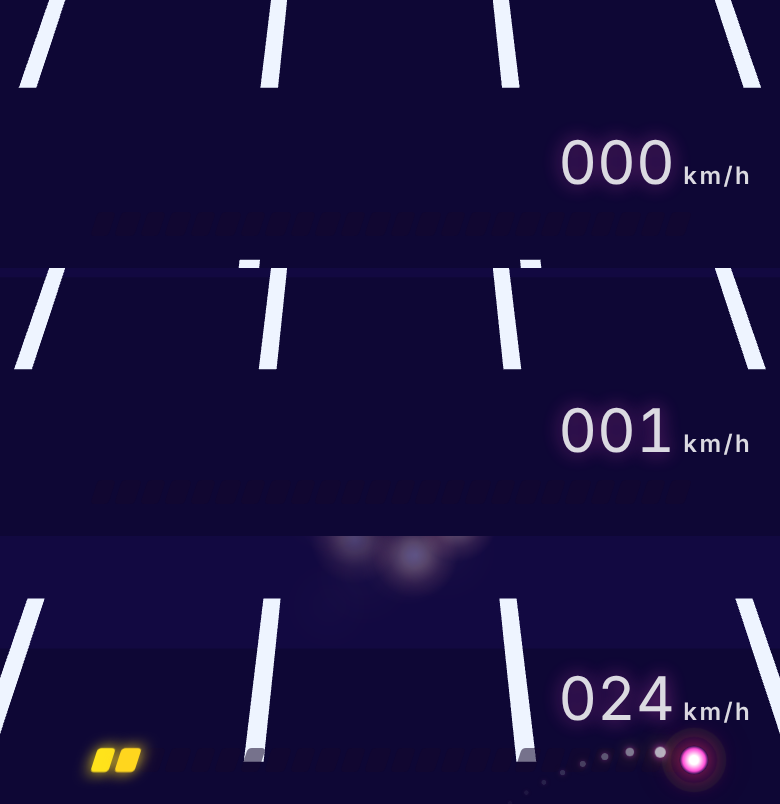
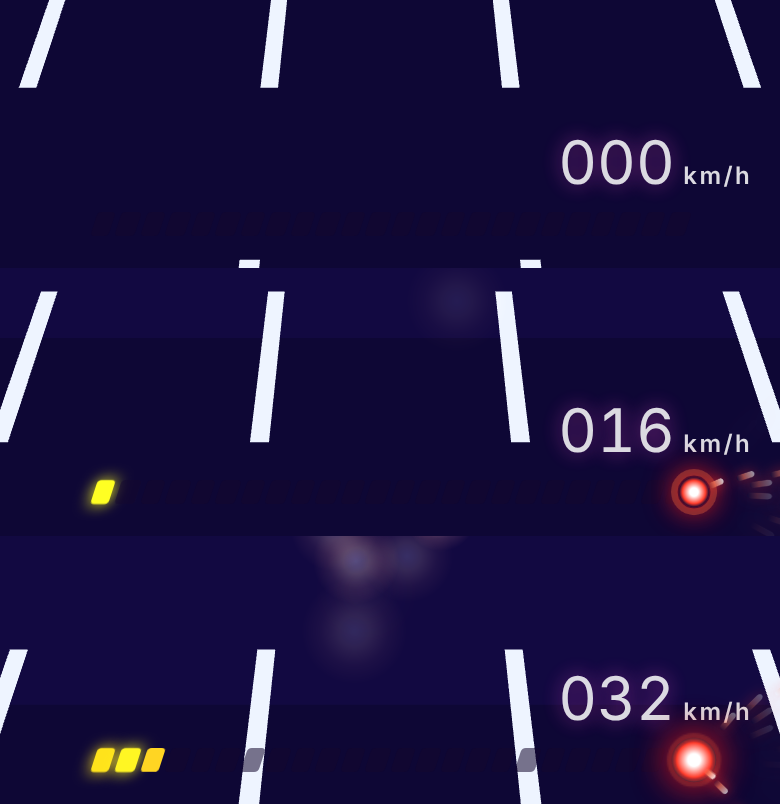
fix(interfaz): las chispas de la velocidad salen hacia fuera y en rojo
A tope, la punta suelta 20 chispas rojas alargadas que salen disparadas
hacia fuera (a la derecha, más allá de la barra) en abanico, en vez de
volver por encima de los segmentos. Orbe y anillo, también en rojo.

Claude-Session: https://claude.ai/code/session_01EwfbyBCyKCbX47326vPkUi

diff --git a/src/app/ui/organisms/hud/hud.scss b/src/app/ui/organisms/hud/hud.scss
@@ -369,15 +369,16 @@
   margin-inline: 9%;
 }
 
-// A tope: la punta rompe el límite de la barra. Un destello con anillos que se abren y chispas
-// que salen disparadas hacia la izquierda (hacia atrás), en abanico, más allá de la barra
+// A tope: la punta rompe el límite de la barra. Destello rojo con un anillo que se abre y una
+// lluvia de chispas rojas que salen disparadas hacia fuera (a la derecha, más allá de la barra),
+// en abanico, como si la velocidad se saliera de la escala
 .speed-tip {
   position: absolute;
   right: -4px;
   top: 50%;
   width: 0;
   height: 0;
-  --c: #ff4fd8;
+  --c: #ff2a2a;
 
   .orb {
     position: absolute;
@@ -385,9 +386,9 @@
     height: 18px;
     margin: -9px;
     border-radius: 50%;
-    background: radial-gradient(circle, #fff 0 22%, #ff4fd8 55%, transparent 72%);
-    box-shadow: 0 0 16px #ff2a6d;
-    animation: orb 0.22s ease-in-out infinite alternate;
+    background: radial-gradient(circle, #fff 0 20%, #ff3b2a 55%, transparent 72%);
+    box-shadow: 0 0 16px #ff1a1a;
+    animation: orb 0.2s ease-in-out infinite alternate;
   }
   // Anillo que se abre desde la punta, como si la barra se partiera
   .ring {
@@ -396,23 +397,24 @@
     height: 14px;
     margin: -7px;
     border-radius: 50%;
-    border: 2px solid #ffd319;
-    box-shadow: 0 0 10px #ff2a6d;
-    animation: ring 0.55s ease-out infinite;
+    border: 2px solid #ff6a3a;
+    box-shadow: 0 0 10px #ff1a1a;
+    animation: ring 0.45s ease-out infinite;
   }
+  // Chispas alargadas en la dirección en la que salen: dan sensación de velocidad
   .spark {
     position: absolute;
-    width: 6px;
-    height: 6px;
-    margin: -3px;
-    border-radius: 50%;
-    background: #fff;
-    box-shadow:
-      0 0 4px var(--c),
-      0 0 12px #ffd319;
-    --dx: calc(-36px - var(--k) * 6px);
-    --dy: calc((var(--k) - 5.5) * 5px);
-    animation: spark 0.55s calc(var(--k) * -0.046s) cubic-bezier(0.1, 0.6, 0.3, 1) infinite;
+    width: 9px;
+    height: 3px;
+    margin: -1.5px 0 0 0;
+    border-radius: 2px;
+    background: linear-gradient(90deg, transparent, #ff7a5a 40%, #fff);
+    box-shadow: 0 0 6px var(--c);
+    transform-origin: 0 50%;
+    // Abanico hacia fuera: de −50° a 50° respecto a la derecha
+    --a: calc((var(--k) - 9.5) * 5.2deg);
+    rotate: var(--a);
+    animation: spark-out 0.42s calc(var(--k) * -0.021s) cubic-bezier(0.1, 0.7, 0.3, 1) infinite;
   }
 }
 
@@ -542,6 +544,17 @@
   100% {
     opacity: 0;
     translate: 0 -10px;
+  }
+}
+@keyframes spark-out {
+  0% {
+    transform: translateX(0) scaleX(0.6);
+    opacity: 1;
+  }
+  100% {
+    // Hacia fuera en su dirección (la rotación ya la orienta)
+    transform: translateX(var(--len)) scaleX(1.6);
+    opacity: 0;
   }
 }
 @keyframes ring {

diff --git a/src/app/ui/organisms/hud/hud.html b/src/app/ui/organisms/hud/hud.html
@@ -74,12 +74,12 @@
         }
       </span>
       @if (topSpeed() && state().accelerating) {
-        <!-- A tope: la punta rompe el límite de la barra y suelta chispas hacia atrás -->
+        <!-- A tope: la punta rompe el límite de la barra y suelta chispas rojas hacia fuera -->
         <span class="speed-tip">
           <i class="ring"></i>
           <i class="orb"></i>
-          @for (k of tipSparks; track k) {
-            <i class="spark" [style.--k]="k"></i>
+          @for (p of tipSparks; track p.k) {
+            <i class="spark" [style.--k]="p.k" [style.--len.px]="p.len"></i>
           }
         </span>
       }

diff --git a/src/app/ui/organisms/hud/hud.ts b/src/app/ui/organisms/hud/hud.ts
@@ -145,6 +145,10 @@ export class Hud {
     return target === null ? '' : formatTime(target);
   });
   protected readonly sparks = Array.from({ length: 9 }, (_, i) => i);
-  /** Chispas de la punta de la velocidad a tope (más que en las medallas). */
-  protected readonly tipSparks = Array.from({ length: 12 }, (_, i) => i);
+  /** Chispas de la punta de la velocidad a tope (muchas: sensación de velocidad). */
+  protected readonly tipSparks = Array.from({ length: 20 }, (_, k) => ({
+    k,
+    // Distancias variadas (34-70 px) para que no salgan todas a la vez en línea
+    len: 34 + ((k * 7) % 5) * 9,
+  }));
 }

diff --git a/CLAUDE.md b/CLAUDE.md
@@ -28,7 +28,7 @@ Juego de carreras 3D low-poly para móvil en vertical. Angular 22 + Three.js. El
 - Mapa del día: el mismo para todos, cambia a medianoche de España y rota entre los circuitos por vueltas. Ranking propio (`daily-AAAA-MM-DD`, como un mapa más) y copa por tercios. Antes de correr se elige rival como en los mapas, del ranking de hoy (el 1.º, el de justo encima o tu mejor de hoy; la elección se recuerda para los días siguientes; «Repetir» sigue contra el mismo): oro, plata o bronce con el puesto. Intentos (no se muestran): 2 gratis al día; al gastarlos, ventana centrada para esperar 3 h (2 más) o ver un anuncio (3 más; sin anuncios todavía, `NoAdsAdapter` los da directamente). Un intento se gasta al empezar la carrera. Un récord del día que mejore el del mapa cuenta también en su ranking.
 - Cubo azul del mapa del día: un cubo azul brillante que gira y flota en un carril; el mismo carril y punto de la vuelta para todos ese día (`core/domain/daily/daily-cube.ts`, sale de la fecha; en un tramo de ancho fijo, lejos de cruces, embudos y de la salida; en cada vuelta en el mismo sitio). Se coge pasando por su carril (una vez al día, `rapiddash.cubeDay`) y regala un coche o un efecto cerrado al azar, que queda abierto en el garaje sin debug (`pickPrize`; `rapiddash.wonCars` y `rapiddash.wonFx`, sobreviven al reinicio de datos). Al acabar esa carrera, encima de los resultados, la ruleta (`prize-roulette`, unos 6,6 s, se salta tocando): el cubo estalla, pasa una cinta con las siluetas de lo que queda por ganar (mismos perfiles que el 3D, `car-looks.ts`; sin dos iguales seguidas, `prize-reel.ts`), frena con rebote y un clic por premio, y el que toca se pinta con «Desbloqueaste» y su nombre. Lleva directo al garaje (`/garage?prize=car-14`) con ese premio a la vista: no se equipa solo, hay que pulsar «Elegir», y «Ahora no» vuelve al mapa del día. Con todo ganado ya no sale. Es decoración: no cambia la física.
 - Medallas por tiempo (`core/domain/medals`), solo en el mapa del día y en los torneos: bronce, plata, oro y platino. Tiempos objetivo del piloto automático (`core/domain/race/autopilot.ts`, T): platino T − 3 %, oro T, plata T + 8 %, bronce T + 18 % (`mapMedalTargets`, se calculan una vez; los mapas de prueba no tienen). La medalla sale de mi mejor tiempo de ese día (en el ranking del día o del día del torneo): cada día se empieza sin medalla. En los mapas sueltos y en el 1 vs 1 Turbo no hay medallas. Se ven en: el HUD (barra de mi liga con su moneda y, debajo, la de la siguiente medalla con su tiempo objetivo y lo que queda, que se va llenando con el tiempo de carrera, con franjas que corren y una punta que late y suelta chispas; late más en los últimos segundos y se apaga con ✕ si ya no llega), los resultados (moneda junto al puesto mundial, «¡Nueva medalla!» con golpe y chispas si sube de liga, y la barra de la siguiente con su tiempo y lo que falta), el top 10 de hoy del mapa del día y la clasificación del torneo (cada piloto con su apodo, su tiempo y su cápsula teñidos del color de su liga, como en Race Time; la mía más intensa y con brillo; el platino irisado; encima, mi liga y la siguiente) y la pantalla Medallas (`/medals`, botón al lado del Garaje: historial del mapa del día de los últimos 60 días con el circuito, la medalla y los cuatro tiempos de cada día jugado; arriba, cuántas de cada, con oro contando también como plata y bronce; el de hoy, con lo que falta y el botón para correrlo; `core/domain/medals/daily-medals.ts`). Moneda en CSS: `rd-medal-coin`; liga: `rd-medal-league`; colores: tokens `--rd-medal-*`.
-- HUD (`rd-hud`, reglas de estilo en la skill `rapiddash-hud-feel`): velocidad con muelle y 24 segmentos del amarillo al rosa que brillan al acelerar; la barra deja un margen a cada lado y, a tope y acelerando, los segmentos laten en ola y la punta «rompe» el límite (destello con un anillo que se abre y chispas disparadas hacia la izquierda, más allá de la barra); el HUD se inclina 1-2° en los cambios de carril; se sacude al chocar; la píldora del fantasma, verde o roja, estalla al cambiar de signo y al ponerse por delante sale «¡Por delante!»; el tiempo da un golpe al cruzar la línea. Respeta «Reducir movimiento». Pruebas, solo con el modo debug: `?auto=1` (piloto automático) y `?best=52.3` y `?demo=1` en la carrera, `?mock=1` en Medallas.
+- HUD (`rd-hud`, reglas de estilo en la skill `rapiddash-hud-feel`): velocidad con muelle y 24 segmentos del amarillo al rosa que brillan al acelerar; la barra deja un margen a cada lado y, a tope y acelerando, los segmentos laten en ola y la punta «rompe» el límite (destello rojo con un anillo que se abre y 20 chispas rojas alargadas disparadas hacia fuera, a la derecha y en abanico, más allá de la barra); el HUD se inclina 1-2° en los cambios de carril; se sacude al chocar; la píldora del fantasma, verde o roja, estalla al cambiar de signo y al ponerse por delante sale «¡Por delante!»; el tiempo da un golpe al cruzar la línea. Respeta «Reducir movimiento». Pruebas, solo con el modo debug: `?auto=1` (piloto automático) y `?best=52.3` y `?demo=1` en la carrera, `?mock=1` en Medallas.
 - Torneos (online): de 3 días y hasta 20 pilotos (puntúan los 10 primeros de cada día). Se crean con nombre y se invita con código de 6 caracteres o enlace (`/t/CODIGO`, Copiar o Compartir). Lo empieza el creador (mínimo 2); con el enlace se puede entrar en cualquier momento hasta que acabe (también ya empezado: la clasificación en curso muestra el código para invitar); al empezar se sortea un circuito por vueltas distinto para cada día. Carreras ilimitadas: cuenta el mejor tiempo del día (ranking `t-CODIGO-dN`, que también mejora el del mapa). En la clasificación en curso se elige rival como en el mapa del día, del ranking del día del torneo (el 1.º, el de justo encima o tu mejor de hoy; se recuerda para todos los torneos; «Repetir» sigue contra el mismo). Puntos por día 15-12-10-8-7-6-5-4-3-2; el empate lo rompen los días ganados. Pantallas: Mis torneos, sala de espera y clasificación con los días (los terminados muestran al ganador); la clasificación muestra los puntos de los días ya empezados, el total y, al lado, la columna «Tiempo» con el del día en curso (o del último, si ya acabó). El creador puede eliminarlo: en Mis torneos, deslizando la tarjeta a la izquierda aparece una papelera a la derecha y una ventana pide confirmación (foco en «Cancelar»); se borran el torneo y las fotos de su cartel.
 - 1 vs 1 Turbo (online, botón en la portada, `/duels`; `core/domain/duel/duel.ts`): crear un duelo da un código de 6 caracteres y un enlace (`/d/CODIGO`) y sortea un circuito por vueltas. Entra un solo rival, sin que haga falta empezarlo (la sala se actualiza sola cada 6 s), y desde ese momento hay 24 h. Cada piloto tiene 3 intentos, sin anuncios, guardados en la nube (`duels/{código}`, las reglas no dejan pasar de 3): el intento se gasta al salir, también con «Repetir» y con el swipe hacia abajo, y sin intentos «Repetir» lleva a la pantalla del duelo. Cuenta el mejor tiempo (ranking `d-CODIGO`, que también mejora el del mapa) y se corre contra el fantasma de la mejor vuelta del rival. Acaba cuando los dos han gastado y terminado sus intentos (un piloto al que se le cierra la app cuenta como terminado a los 5 min de su último intento) o al pasar las 24 h. Gana el mejor tiempo; si solo corrió uno, él; mismo tiempo exacto, empate; sin tiempos, sin ganador. Pantalla final para los dos (`/duels/CODIGO/victory`): el coche y el efecto del ganador repiten su mejor vuelta en 3D, en bucle, con «¡Victoria!» y las letras saltando una a una, y los dos tiempos. El creador puede eliminarlo en cualquier momento, para los dos: en la lista, deslizando la tarjeta a la izquierda aparece la papelera y una ventana pide confirmación, como en los torneos (mientras espera rival, también con «Cancelar duelo» en la sala).
 - Carteles de líderes: detrás del muro frontal de hasta 2 cruces por mapa (uno por mitad, el de la recta de llegada más larga, nunca el primero), un panel grande con el 1.º y otro menor con el 2.º (bandera, apodo y marca). En torneo, sus puntos («Líder · nombre del torneo»); en el mapa, el ranking mundial; en el mapa del día, el del día. Sin tiempos: «¿Serás el primero?»; sin red, no salen. Son decoración: no cambian la física.

diff --git a/.claude/skills/rapiddash-hud-feel/SKILL.md b/.claude/skills/rapiddash-hud-feel/SKILL.md
@@ -29,7 +29,8 @@ muelles y brillos synthwave. Referencia: `src/app/ui/organisms/hud/` y
      barra palpita con su color. Si ya no llega: se apaga (opacidad 0,45 + escala de grises) y ✕.
    - La velocidad son 24 segmentos del amarillo al rosa (no cambiar a barra continua), con un
      margen del 9 % a cada lado. A tope y acelerando: laten en ola y la punta «rompe» el límite
-     (orbe, anillo que se abre y 12 chispas disparadas hacia la izquierda, más allá de la barra).
+     (orbe rojo, anillo que se abre y 20 chispas rojas alargadas disparadas hacia fuera, a la
+     derecha y en abanico de ±50°, más allá de la barra; nunca por encima de los segmentos).
 4. **Brillo con el color de la cosa**, nunca blanco genérico: `box-shadow` y `text-shadow` con
    `color-mix(in srgb, var(--c) 30-60 %, transparent)`.
 5. **Inclinación synthwave:** barras y cápsulas con `skewX(-12deg)` (velocidad `-18deg`) y textos
